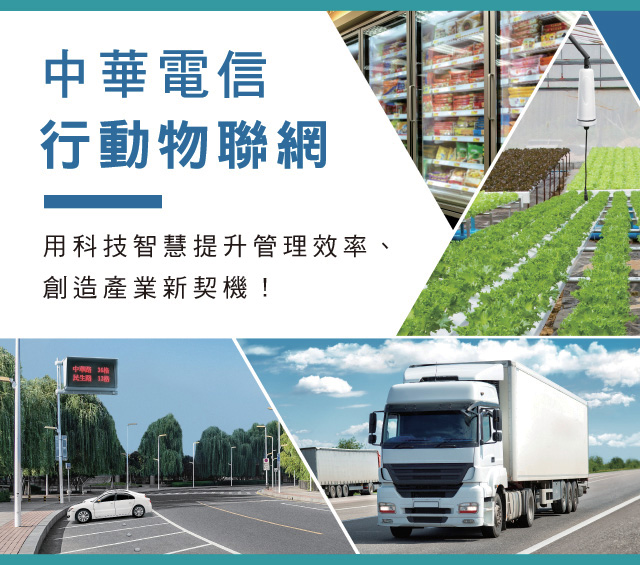
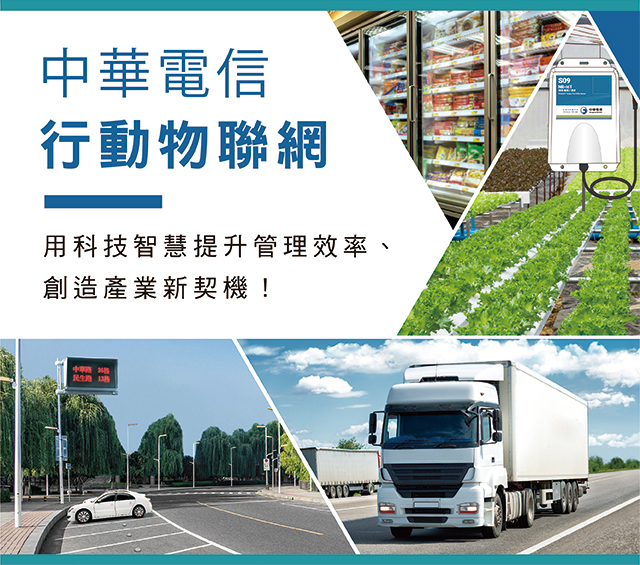
物聯網
連結調整
常見問題加入連結
輪播圖片調整
不沖文字內容

diff --git a/demo/obj/index.html b/demo/obj/index.html
@@ -120,7 +120,7 @@ height="0" width="0" style="display:none;visibility:hidden"></iframe></noscript>
 		<img src="images/KV_m.jpg" />
 	</div>
     <div class="sticker">
-        <a href="#"><img src="images/sticker.png" /></a>
+        <a href="https://iot.cht.com.tw/iot/"><img src="images/sticker.png" /></a>
     </div>
 	<div id="container_page">
 		<div class="anchor" scroll-id="intro"></div>
@@ -252,7 +252,7 @@ height="0" width="0" style="display:none;visibility:hidden"></iframe></noscript>
                      <div class="swiper-slide">
                       <img src="images/ro_m_05.jpg" usemap="#mmap5">
                     <map name="mmap5">
-                        <area href="#" data-featherlight="#f20" coords="39,363,198,399" shape="rect">
+                        <area href="#" data-featherlight="#f20" coords="33,246,176,281" shape="rect">
                     </map>
                      </div>
 				 </div>
@@ -366,7 +366,7 @@ height="0" width="0" style="display:none;visibility:hidden"></iframe></noscript>
         <div class="anchor" scroll-id="link"></div>
         <section class="link" >
             <h1 class="separator">物聯網連線管理平台</h1>
-            <p class="d">物聯網時代，萬物互聯呈現爆發增長。使用傳統SIM卡管理方式，將無法應付蜂擁而至的各種超量、異常故障等情況。針對大量SIM卡管理問題，中華電信物聯網平台提供操作便利的Web Portal及豐富API，協助企業客戶高效便捷地管理物聯網SIM卡。</p>
+            <p>物聯網時代，萬物互聯呈現爆發增長。使用傳統SIM卡管理方式，將無法應付蜂擁而至的各種超量、異常故障等情況。針對大量SIM卡管理問題，中華電信物聯網平台提供操作便利的Web Portal及豐富API，協助企業客戶高效便捷地管理物聯網SIM卡。</p>
             <img class="d" src="images/link_banner.png"  usemap="#mmap11" />
             <map name="mmap11">
                 <area target=""  href="https://www.emome.net/channel?chid=721" coords="151,57,755,441" shape="rect">
@@ -578,8 +578,17 @@ height="0" width="0" style="display:none;visibility:hidden"></iframe></noscript>
         <div class="anchor" scroll-id="faq"></div>
         <section class="reminder">
             <h1 class="separator">常見問題</h1>
-            <img class="d" src="images/faq.gif" />
-            <img class="m" src="images/faq_m.gif" />
+            <img class="d" src="images/faq.gif" usemap="#map_faq">
+            <map name="map_faq">
+                <area target="_blank" alt="" title="" href="mailto:miot@cht.com.tw" coords="726,195,961,217" shape="rect">
+                <area target="_blank" alt="" title="" href="https://www.emome.net/internet_coverage" coords="747,2087,1301,2110" shape="rect">
+            </map>
+            <img class="m" src="images/faq_m.gif" usemap="#map_faq_m">
+            <map name="map_faq_m">
+                <area target="_blank" alt="" title="" href="mailto:miot@cht.com.tw" coords="374,100,507,117" shape="rect">
+                <area target="_blank" alt="" title="" href="https://www.emome.net/internet_coverage" coords="379,1303,488,1322" shape="rect">
+                <area target="_blank" alt="" title="" href="https://www.emome.net/internet_coverage" coords="90,1327,321,1339" shape="rect">
+            </map>
         </section>
 	</div>
 	<!-- container_page end -->
@@ -623,7 +632,7 @@ height="0" width="0" style="display:none;visibility:hidden"></iframe></noscript>
 	<div class="lightbox" id="fl7">  
 		<img src="images/pm_02.jpg" />
 	</div>
-	<div class="lightbox" id="fl9"> 
+	<div class="lightbox" id="fl8"> 
 		<img src="images/pm_03.jpg" />
 	</div>
 	<div class="lightbox" id="fl9">  
